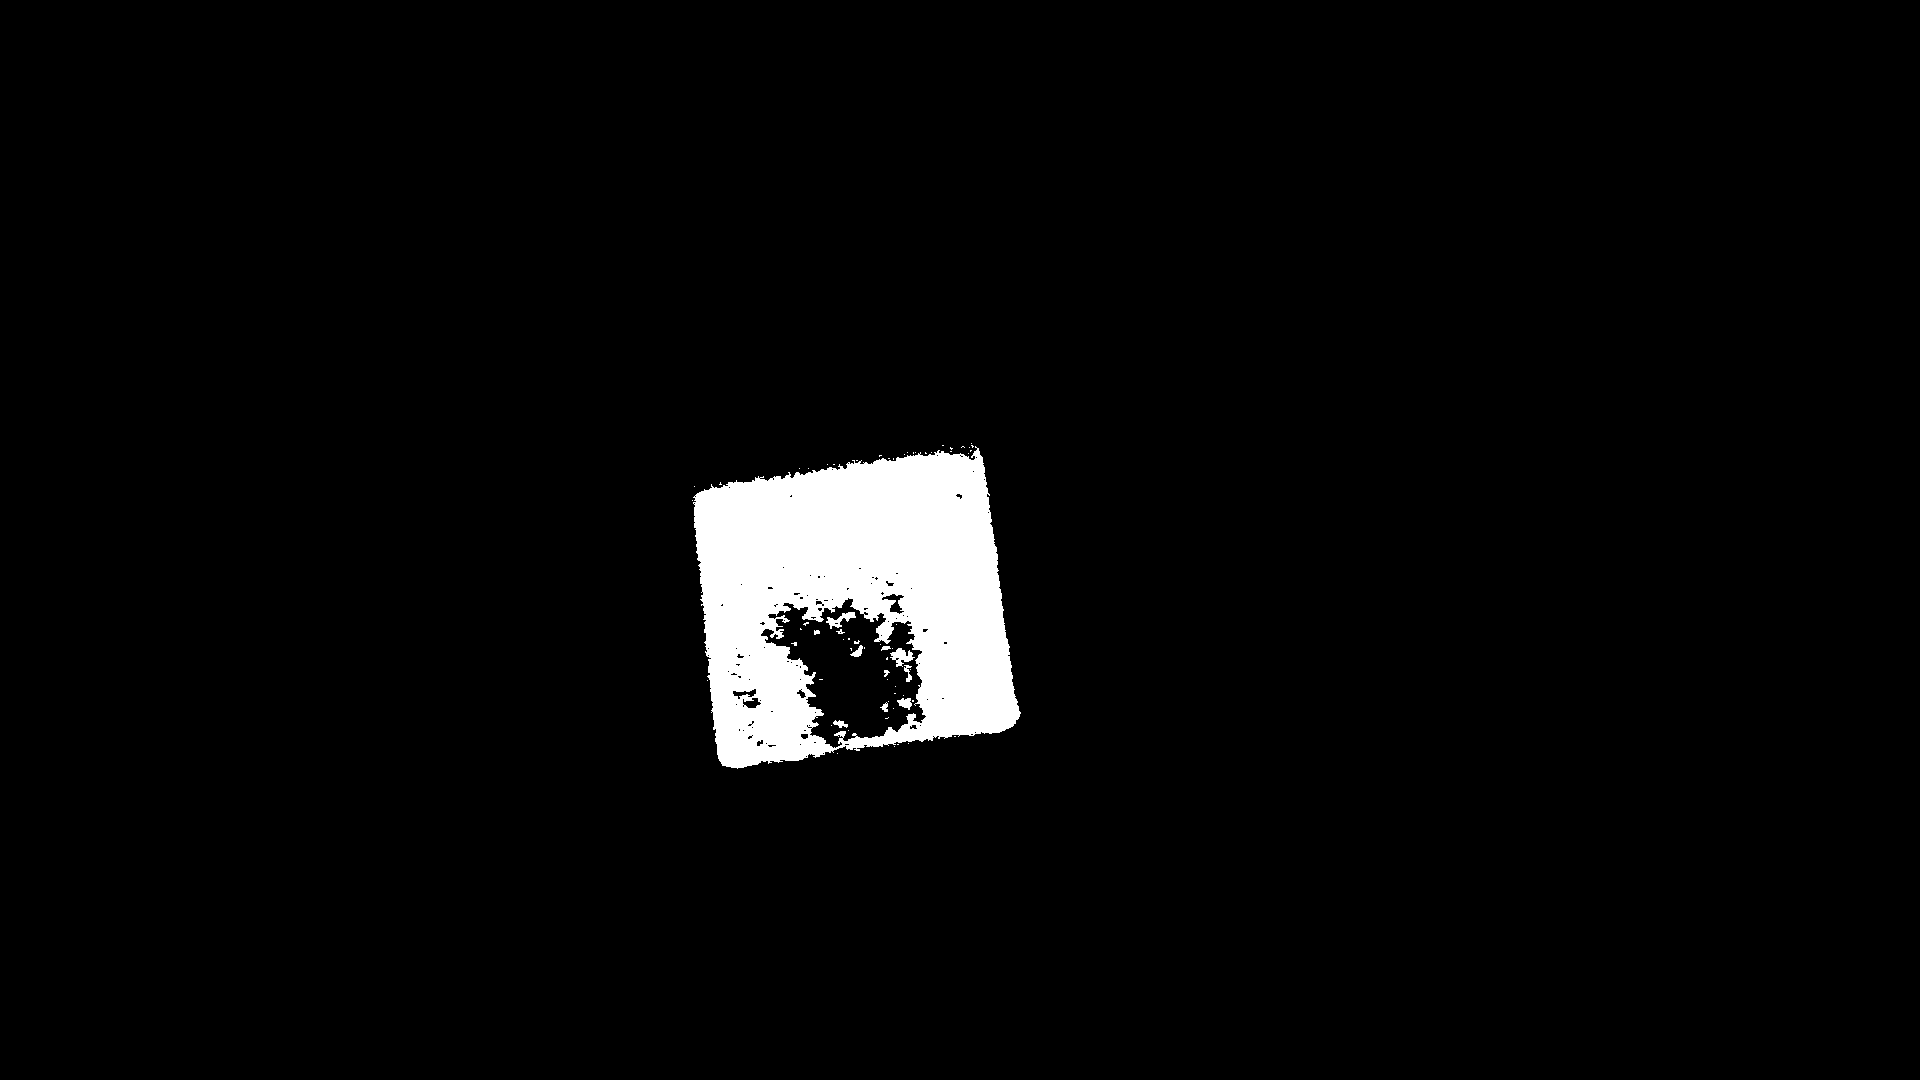
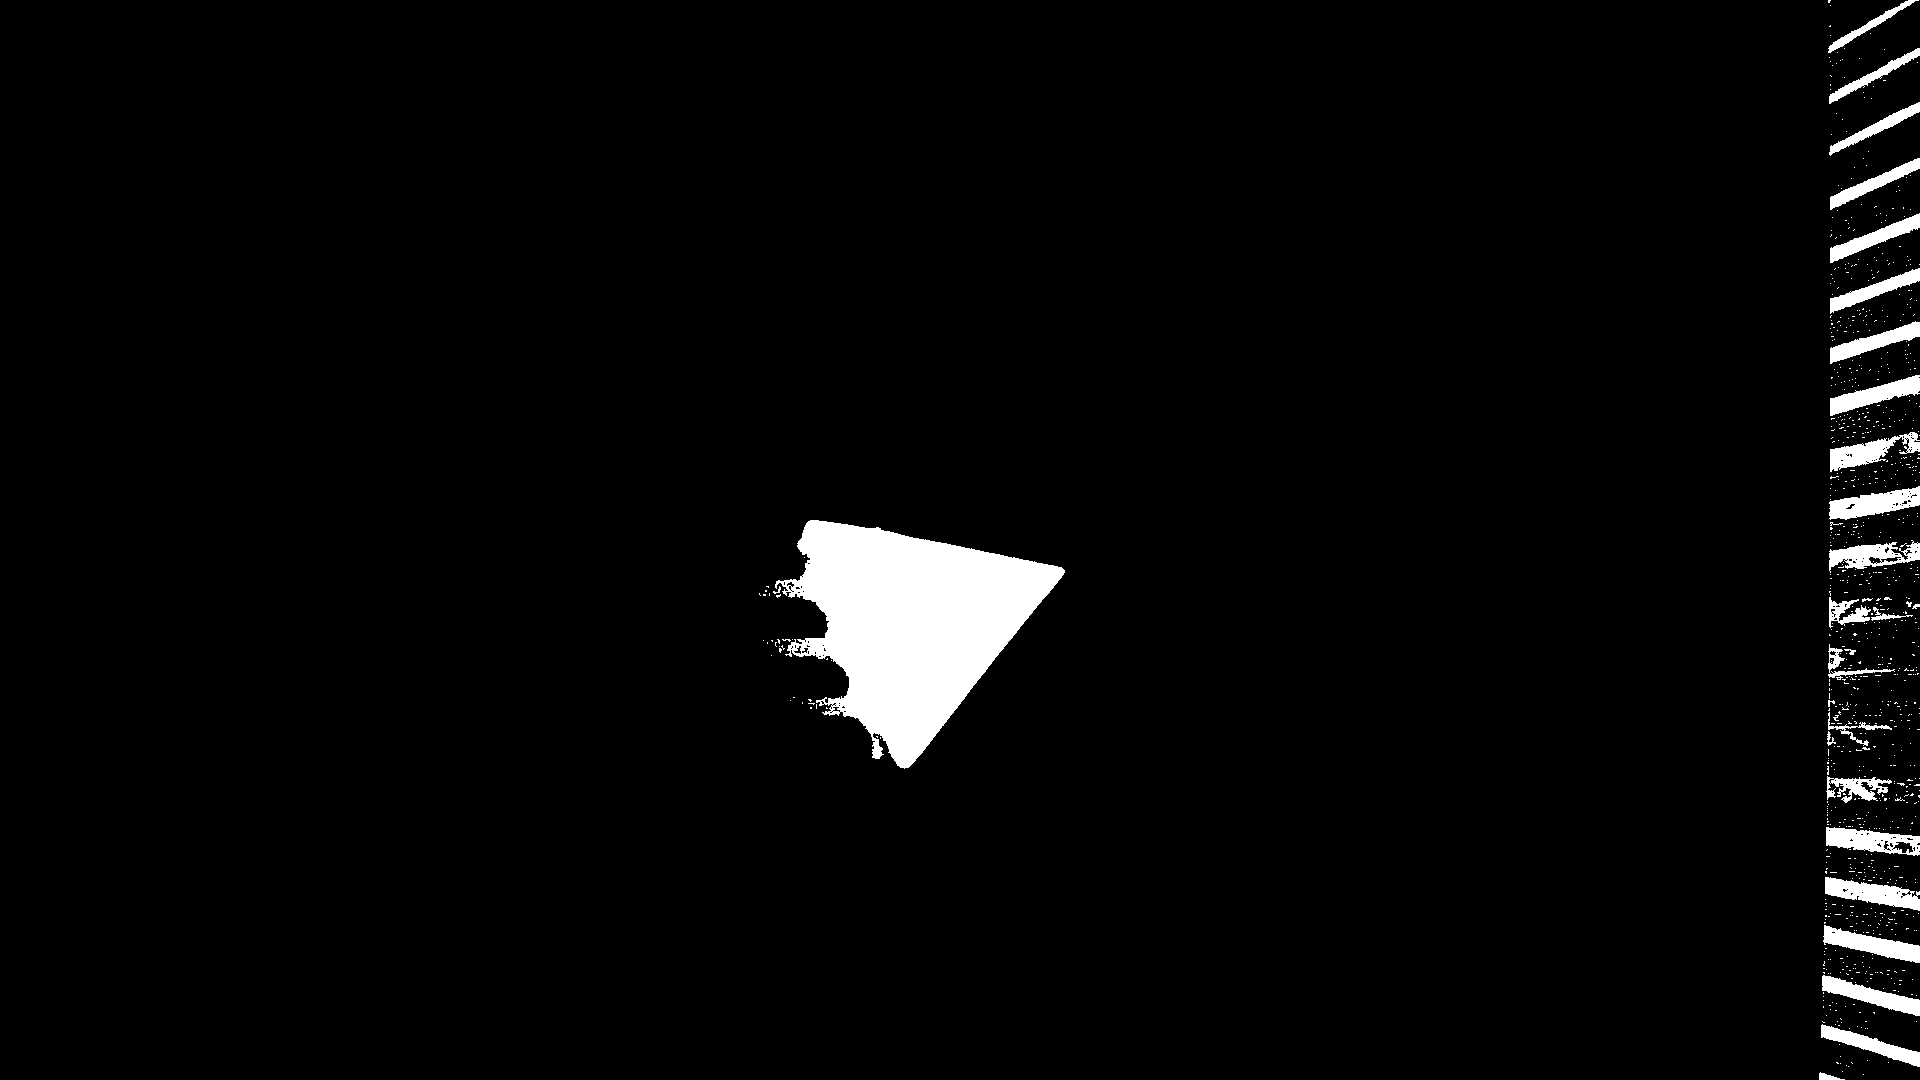
kalibracja działa prawie ze wszytkimi zdjeciami, paski na tb powodują błędy - chyba rzeczywiście trzeba dodać zakresy, albo zrobić lepsze zdjęcia bez pasków. paski przez latarkę

diff --git a/app/kalibracja.py b/app/kalibracja.py
@@ -35,7 +35,7 @@ zdjecia_kalibracja = glob.glob(sciezka_zapisu + "dist_cal*.jpg")
 # Wybór liczby obiektów kalibracji
 
 n_obiekt = int(input("Liczba obiektow kalibracji: "))
-zdj = glob.glob(sciezka_zapisu + "object_*.jpg")
+zdj = glob.glob(sciezka_zapisu + "object_1?.jpg")
 # zdj = glob.glob(".\\test_img\\pieciokat_test*.jpg")
 # Pięciokąty:
 # zdj = [".\\test_img\\cal_img\\object_1.jpg", ".\\test_img\\cal_img\\object_3.jpg", ".\\test_img\\cal_img\\object_6.jpg"]
@@ -51,8 +51,9 @@ cv2.resizeWindow("Kalibracja", 668, 500)
 
 # Wybór kształtu i koloru kolejnego obiektu 
 while n_obiekt:
-    thresh_ksztalt = 255
+    thresh_ksztalt = 79
     spr_wybor = 1
+    print(zdj[i])
     # Wybor ksztaltu
     while(spr_wybor):
         ksztalt = input("Ksztalt podstawy: [p - prostokat, t - trójkat, k - pięciokąt]: ")
@@ -97,8 +98,8 @@ while n_obiekt:
     # thresh_ksztalt_temp = thresh_ksztalt
 
     while True:
-        thresh_ksztalt -= 1
-        if thresh_ksztalt <= 0:
+        thresh_ksztalt += 1
+        if thresh_ksztalt >= 255:
             break
 
         check, ksztalt, coords, zdj_ksztalt, tekst = detekcja_ksztaltu(zdj[i], thresh_ksztalt)
@@ -118,10 +119,10 @@ while n_obiekt:
                 case 't':
                     break
                 case 'n':
-                    thresh_ksztalt -= 5
+                    thresh_ksztalt += 5
                     continue
     thresh_ksztalt_wyniki.append(thresh_ksztalt)
-
+    # [54, 54, 47, 73, 79, 76, 53, 35, 32]
     # while ksztalt != ksztalt_wybor and thresh_ksztalt_temp >= 0:
     #     thresh_ksztalt_temp -= 1
     #     check, ksztalt, coords = detekcja_ksztaltu(zdj[i], thresh_ksztalt_temp)

diff --git a/app/detekcja_ksztaltu.py b/app/detekcja_ksztaltu.py
@@ -6,7 +6,7 @@ def detekcja_ksztaltu(zdj_sciezka, thresh ):
     gray = cv2.cvtColor(zdj, cv2.COLOR_BGR2GRAY)
 
     # Konwersja do obrazu czarno białego bez skali szarości
-    _, zdj_thresh = cv2.threshold(gray, thresh, 255, cv2.THRESH_BINARY)
+    _, zdj_thresh = cv2.threshold(gray, thresh, 255, cv2.THRESH_BINARY_INV)
     # resize = cv2.resize(zdj_thresh, (267, 200))
     # cv2.imshow("zdj thresh", resize)
     # cv2.waitKey(100)
